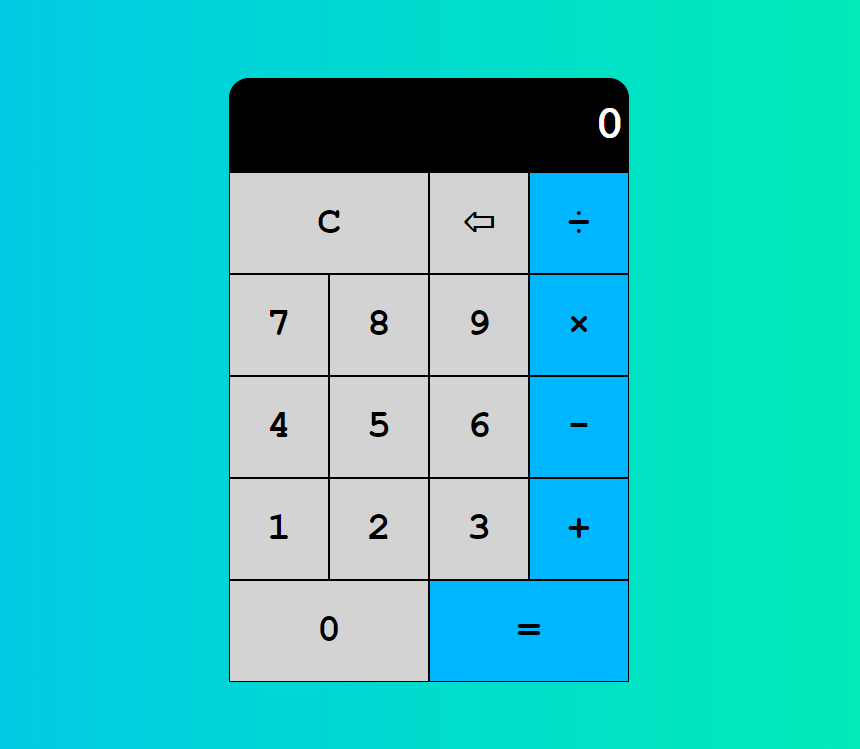
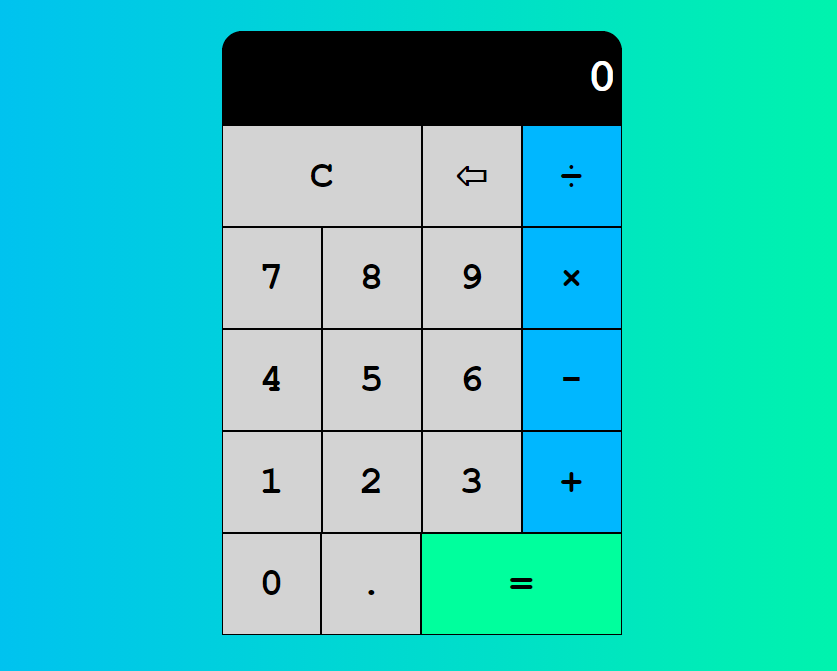
:art: UI done

diff --git a/scss/style.scss b/scss/style.scss
@@ -25,7 +25,7 @@ body {
         border-radius: 0;
     }
     @media (max-height: 610px) {
-        height: 100vh;
+        height: 100%;
     }
 }
 
@@ -69,6 +69,15 @@ body {
         }
         &:active {
             background-color: $btn-bg-color-lastchild-active;
+        }
+    }
+    &.equal {
+        background-color: $btn-equal;
+        &:hover {
+            background-color: $btn-equal-hover;
+        }
+        &:active {
+            background-color: $btn-equal-active;
         }
     }
 }

diff --git a/index.html b/index.html
@@ -36,8 +36,9 @@
                     <button class="btn">+</button>
                 </div>
                 <div class="btn-row">
-                    <button class="btn double">0</button>
-                    <button class="btn double">=</button>
+                    <button class="btn">0</button>
+                    <button class="btn">.</button>
+                    <button class="btn double equal">=</button>
                 </div>
             </section>
         </div>

diff --git a/css/style.css b/css/style.css
@@ -38,7 +38,7 @@ body {
 
 @media (max-height: 610px) {
   .calculator {
-    height: 100vh;
+    height: 100%;
   }
 }
 
@@ -85,6 +85,18 @@ body {
 
 .btn:last-child:active {
   background-color: #00a2ff;
+}
+
+.btn.equal {
+  background-color: #00ff9d;
+}
+
+.btn.equal:hover {
+  background-color: #00ff9d;
+}
+
+.btn.equal:active {
+  background-color: #00ff9d;
 }
 
 .btn-row {

diff --git a/scss/_variables.scss b/scss/_variables.scss
@@ -5,3 +5,6 @@ $btn-bg-color-active: rgb(143, 143, 143);
 $btn-bg-color-lastchild: rgb(0, 183, 255);
 $btn-bg-color-lastchild-hover: rgb(94, 209, 255);
 $btn-bg-color-lastchild-active: rgb(0, 162, 255);
+$btn-equal: rgb(0, 255, 157);
+$btn-equal-hover: rgb(0, 255, 157);
+$btn-equal-active: rgb(0, 255, 157);
